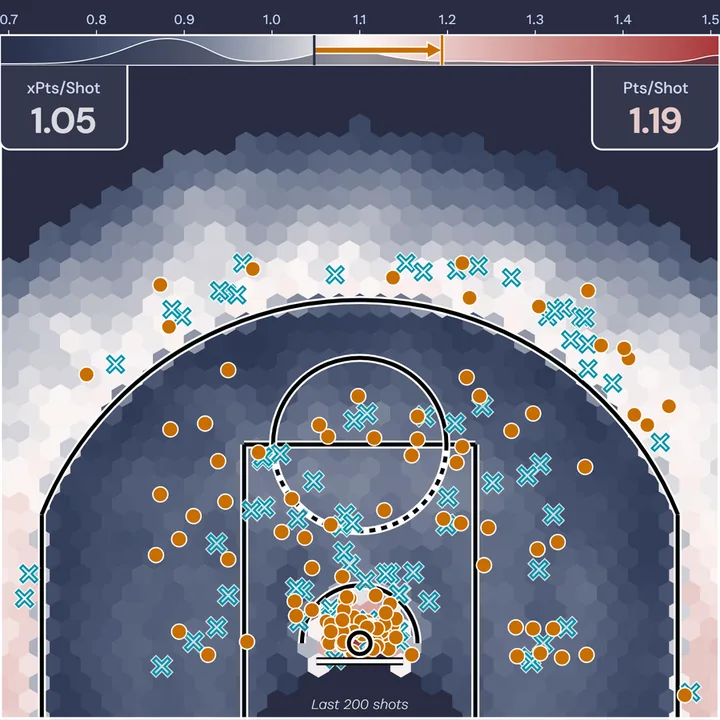
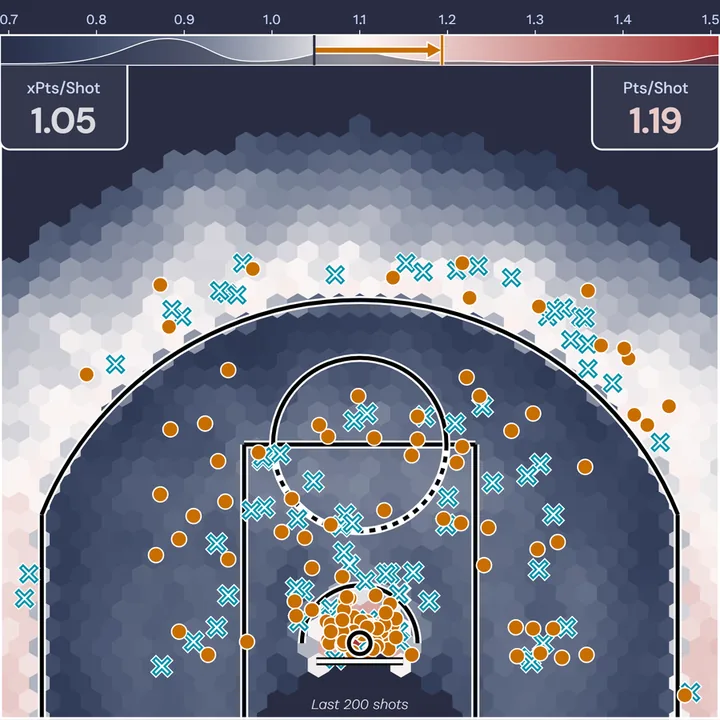
NBA Shot Charts: misses' white outline fully opaque
The X's white outline was at the app's alpha 0.75; it is now opaque like the other outlines.

diff --git a/nba-shot-charts/figure.js b/nba-shot-charts/figure.js
@@ -206,7 +206,7 @@ function rim(ctx) {
   ctx.setLineDash([]);
 }
 
-// misses as an open cyan X over a white one, makes as an amber dot with a white edge
+// misses as an open cyan X over an opaque white one, makes as an amber dot with a white edge
 function shots(ctx, marked) {
   const xPath = (x, y, r) => {
     const t = r * 0.32;   // matplotlib's "X": a filled cross, drawn here by its outline
@@ -219,8 +219,8 @@ function shots(ctx, marked) {
   for (const s of marked) {
     if (s.made) continue;
     xPath(cx(s.x), cy(s.y), 8.5);
-    ctx.globalAlpha = 0.75; ctx.strokeStyle = C.outline; ctx.lineWidth = 4.5; ctx.stroke();
-    ctx.globalAlpha = 1; ctx.strokeStyle = C.cyan; ctx.lineWidth = 2; ctx.stroke();
+    ctx.strokeStyle = C.outline; ctx.lineWidth = 4.5; ctx.stroke();
+    ctx.strokeStyle = C.cyan; ctx.lineWidth = 2; ctx.stroke();
   }
   for (const s of marked) {
     if (!s.made) continue;
